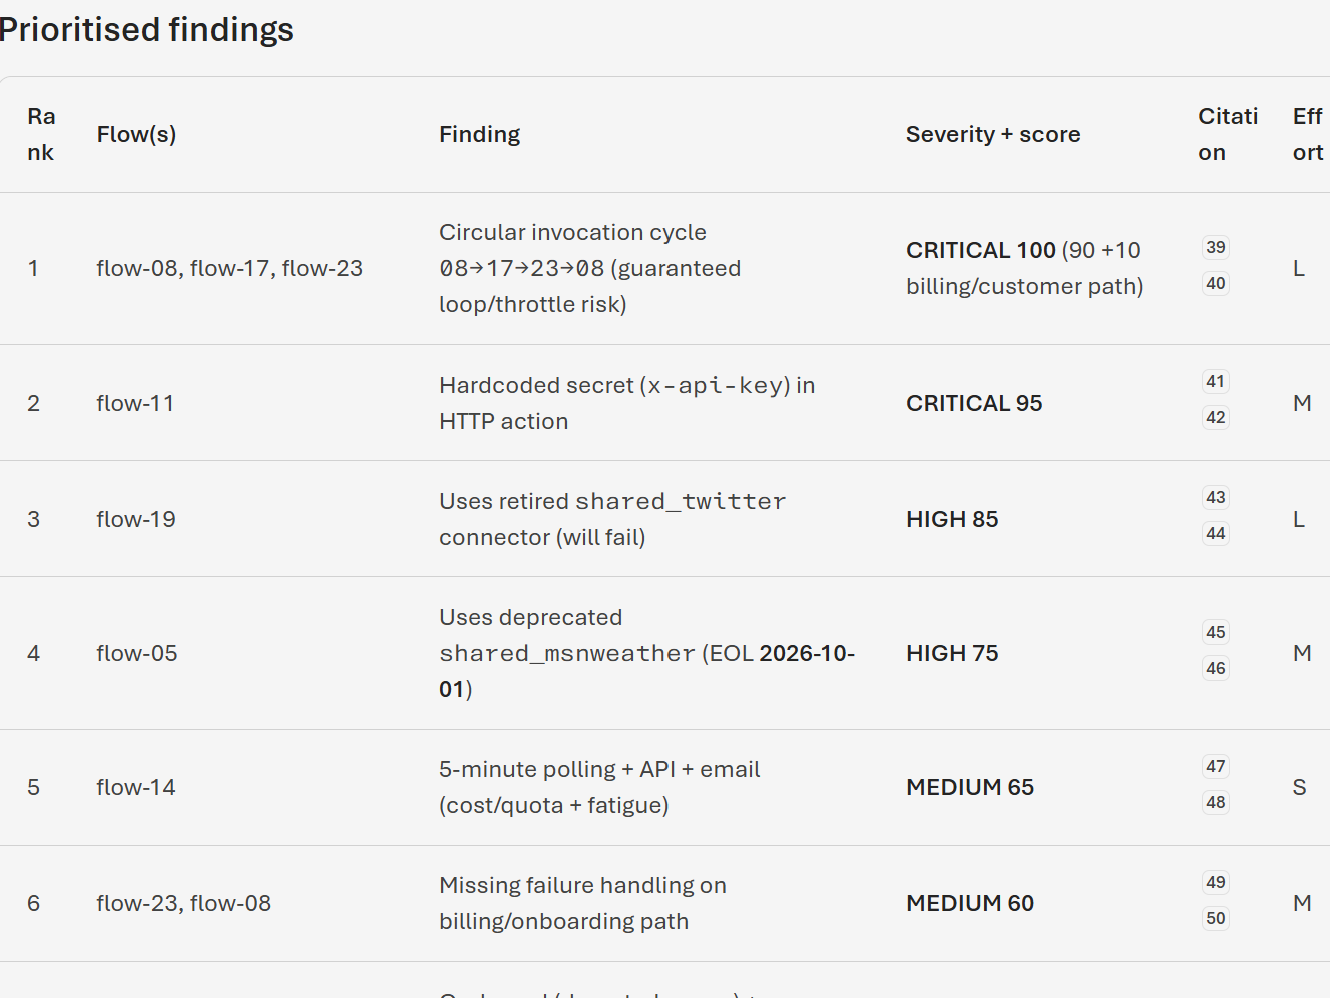
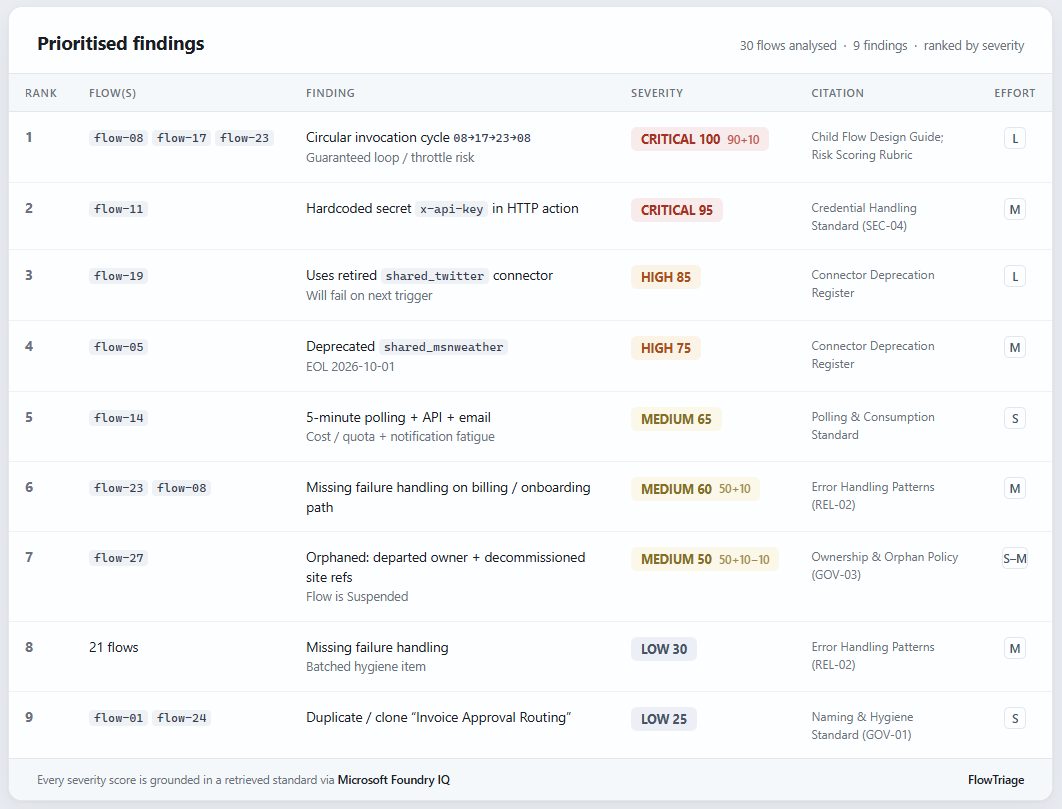
Replace hero and reasoning screenshots with polished versions

diff --git a/README.md b/README.md
@@ -59,7 +59,7 @@ This isn't retrieval bolted onto a chatbot. **The agent's entire judgment model 
 - Detection guidance (what counts as a secret, what counts as a cycle, what counts as an orphan) is grounded in nine governance standards under [`knowledge/`](knowledge/)
 - Foundry IQ's agentic retrieval picks the relevant standard per finding; the agent is forbidden from scoring anything it cannot ground
 
-![Foundry IQ knowledge base](assets/foundry-iq-knowledge-base.png)
+![How FlowTriage reasons: deterministic code detects, the Foundry agent judges, and every judgment cites a standard retrieved from Foundry IQ](assets/how-flowtriage-reasons.png)
 
 **Swap the knowledge base, change the judgment.** Point the same agent at *your* organisation's standards and it triages by your rules - that's the Foundry IQ design payoff.
 